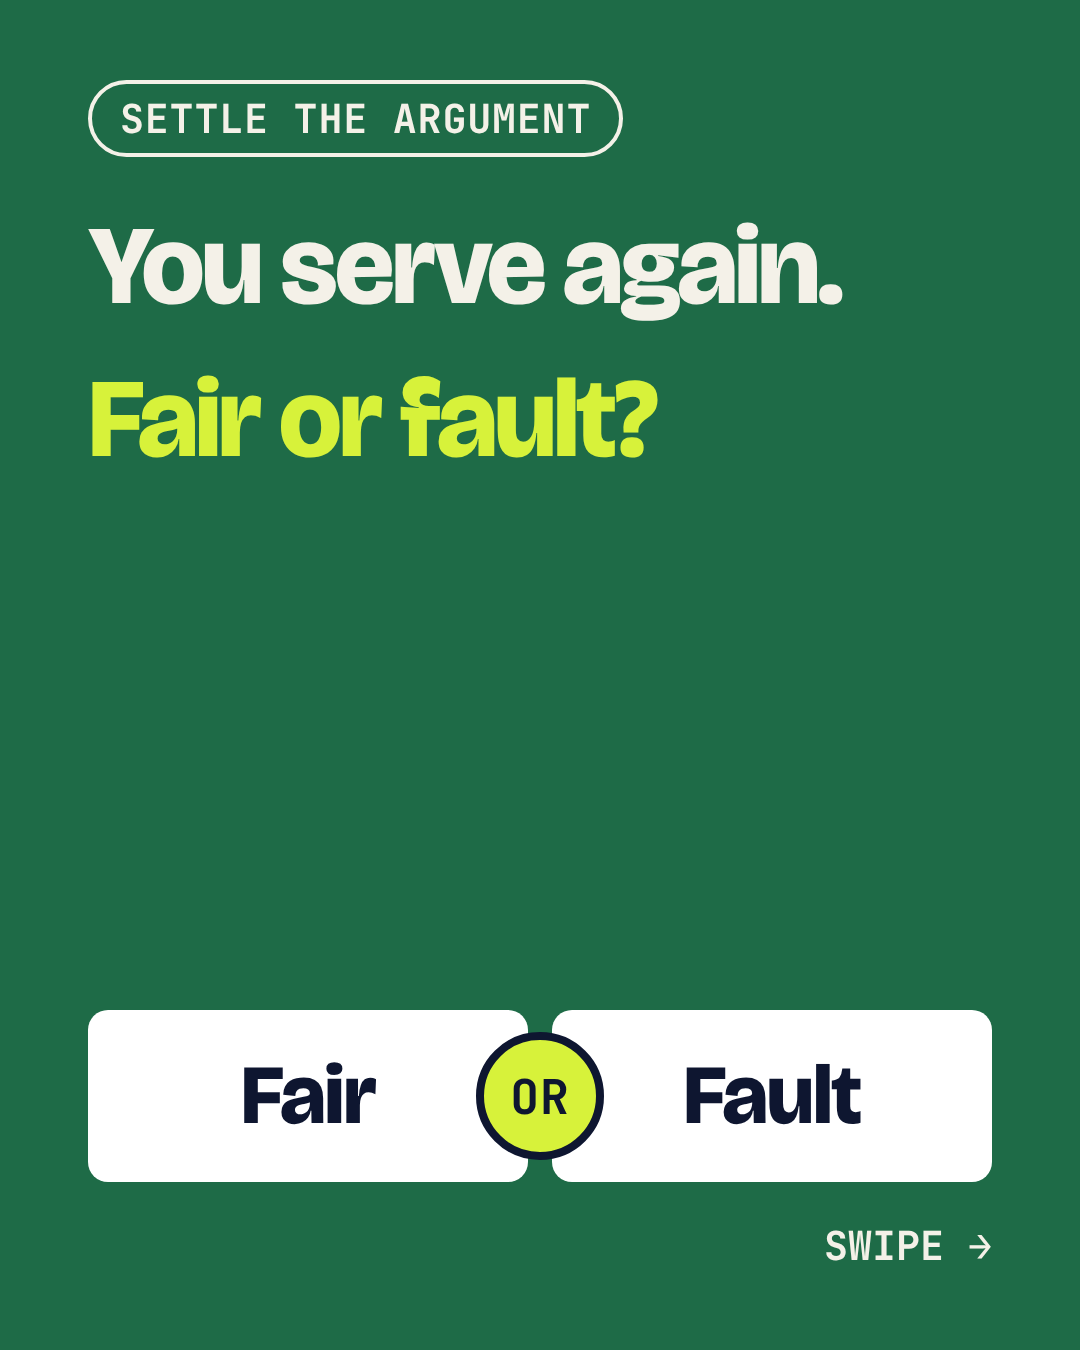
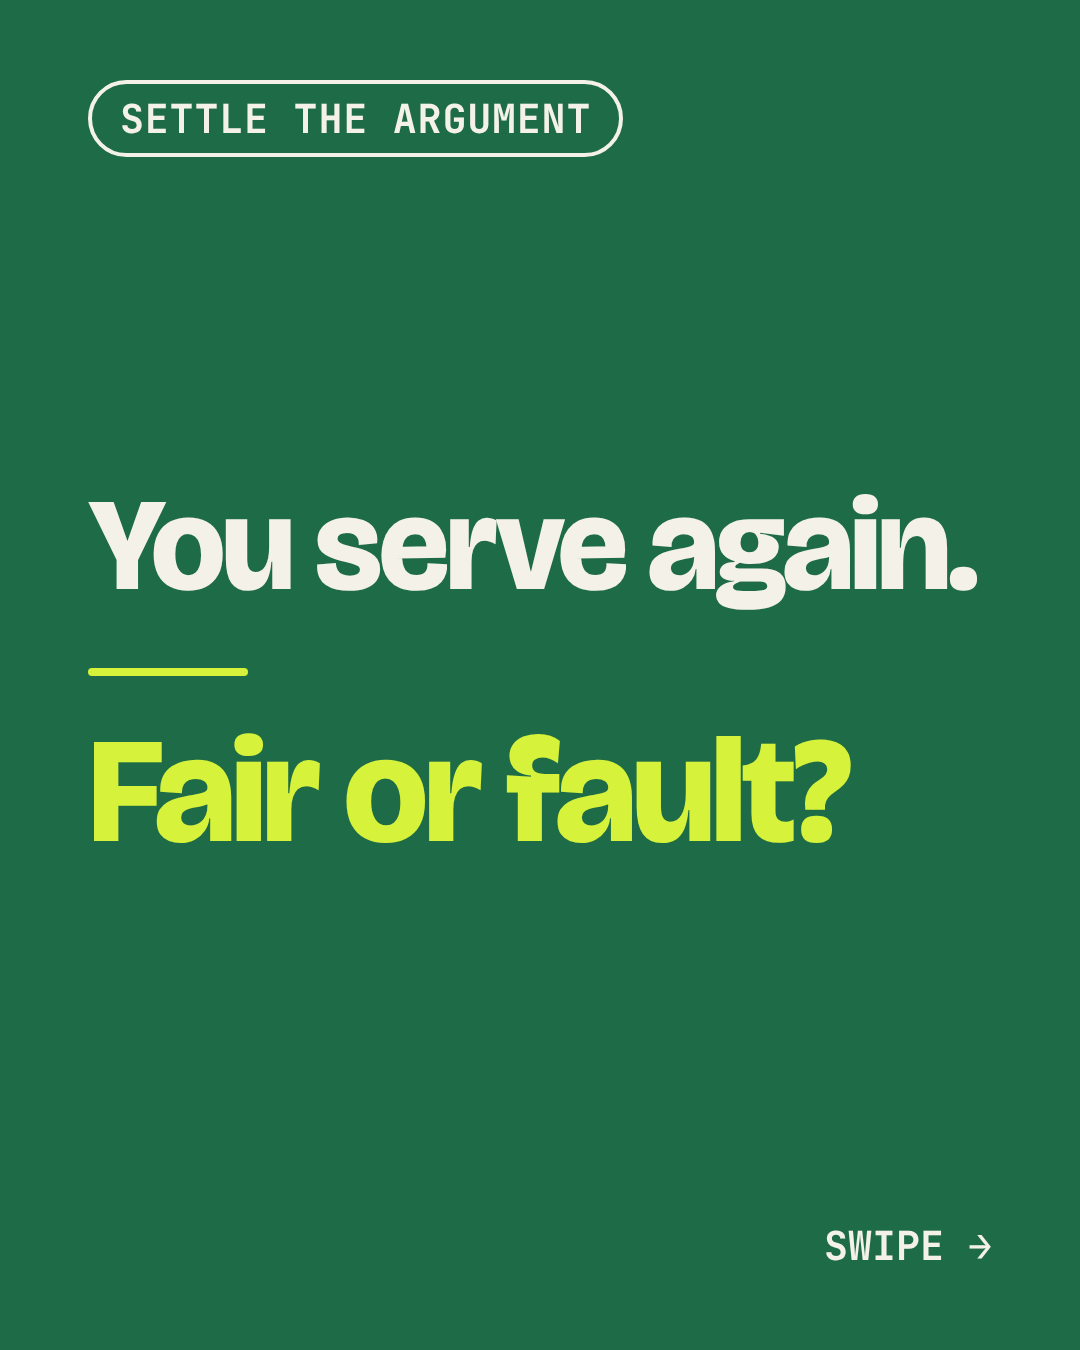
Claim slide: drop answer buttons, clearer type
Claude-Session: https://claude.ai/code/session_01QkVtpd5pUHv7AHrWCFBuCg

diff --git a/engine/series.py b/engine/series.py
@@ -454,9 +454,11 @@ def build(post, i):
     elif t == "claim":
         # the statement people vote on (since 31 Oct 2026 for every series with a vote): never a question,
         # so FAIR / FAULT on the last slide always judges this exact sentence
+        # no buttons (31 Oct): the statement big and centred, "Fair or fault?" as the clear question below it
         ask = C["ball"] if not yellow else C["court"]
-        body = (top + head(fmt(s["text"], hl), 112, fg) + head("Fair or fault?", 112, ask, 48, 0.9) +
-                tiles(yellow) + swipe(fg))
+        body = (top + head(fmt(s["text"], hl), 132, fg, 0, 1.0, "margin-top:auto") +
+                f'<div style="margin-top:56px;height:8px;width:160px;border-radius:999px;background:{ask}"></div>' +
+                head("Fair or fault?", 150, ask, 48, 0.9, "margin-bottom:auto") + swipe(fg))
     elif t == "guess":
         bars = s["bars"]
         vals = [float(re.sub(r"[^0-9.]", "", b)) for b in bars]
